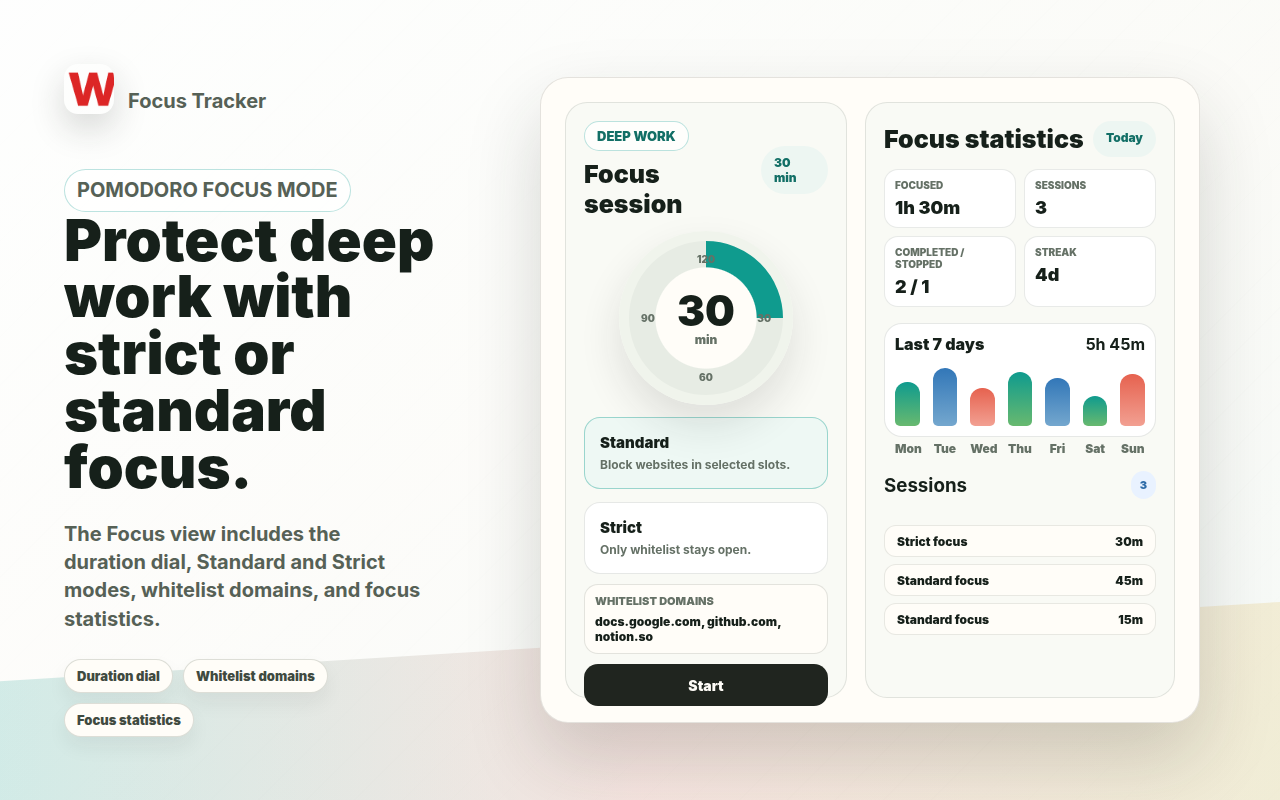
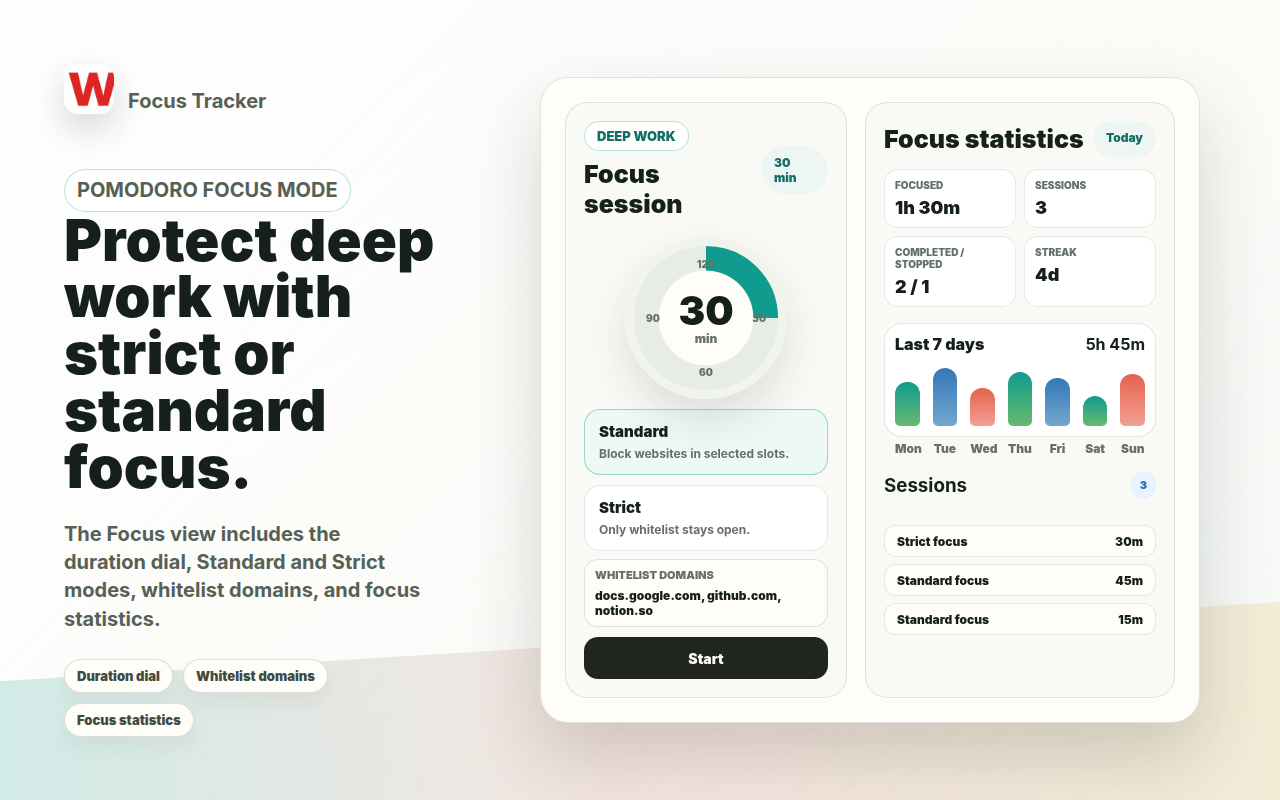
Tighten presentation screenshot layouts

Changed region(s): [[0.4375, 0.625, 0.6562, 0.9062], [0.5, 0.3125, 0.625, 0.4062], [0.4688, 0.5312, 0.625, 0.5938]]

diff --git a/presentation/store-assets.html b/presentation/store-assets.html
@@ -382,6 +382,49 @@
         padding: 0 18px 20px;
       }
 
+      .site-card-mock {
+        position: relative;
+        display: grid;
+        gap: 8px;
+        padding: 9px 44px 9px 66px;
+        border-radius: 12px;
+        background: #f8fbff;
+        border: 1px solid rgba(22, 32, 28, 0.12);
+        box-shadow: 0 10px 24px rgba(32, 37, 31, 0.06);
+      }
+
+      .site-card-toggle {
+        position: absolute;
+        top: 14px;
+        left: 12px;
+        width: 44px;
+        height: 24px;
+        border-radius: 999px;
+        background: var(--teal);
+      }
+
+      .site-card-toggle::before {
+        content: "";
+        position: absolute;
+        top: 3px;
+        right: 3px;
+        width: 18px;
+        height: 18px;
+        border-radius: 50%;
+        background: #ffffff;
+        box-shadow: 0 2px 6px rgba(32, 37, 31, 0.18);
+      }
+
+      .site-card-mock .site-row {
+        grid-template-columns: 1fr auto;
+        min-height: 40px;
+        padding: 0;
+        border: 0;
+        border-radius: 0;
+        background: transparent;
+        box-shadow: none;
+      }
+
       .site-row {
         display: grid;
         grid-template-columns: 36px 1fr auto;
@@ -423,6 +466,34 @@
         color: #6b7469;
         font-size: 12px;
         font-weight: 750;
+      }
+
+      .site-card-mock .site-row-actions {
+        display: grid;
+        align-items: stretch;
+        justify-content: stretch;
+        gap: 8px;
+        margin: 0;
+        padding-top: 10px;
+        border-top: 1px solid rgba(22, 32, 28, 0.08);
+        border-radius: 0;
+        background: transparent;
+        color: #64748b;
+        font-size: 12px;
+        font-weight: 800;
+      }
+
+      .revoke-button-mock {
+        display: grid;
+        place-items: center;
+        width: 100%;
+        min-height: 34px;
+        border: 1px solid rgba(190, 24, 93, 0.16);
+        border-radius: 6px;
+        background: rgba(190, 24, 93, 0.08);
+        color: #be185d;
+        font-size: 12px;
+        font-weight: 850;
       }
 
       .badge {
@@ -770,6 +841,7 @@
       .usage-two-col {
         display: grid;
         grid-template-columns: 1.08fr 0.92fr;
+        align-items: start;
         gap: 10px;
       }
 
@@ -885,20 +957,20 @@
         position: relative;
         display: grid;
         place-items: center;
-        width: 174px;
-        height: 174px;
-        margin: 8px auto 12px;
+        width: 162px;
+        height: 162px;
+        margin: 6px auto 10px;
         border-radius: 50%;
         background:
           radial-gradient(circle at center, #fffdf8 0 46%, transparent 47%),
           conic-gradient(var(--teal) 0 25%, #e7ece4 25% 100%);
-        border: 10px solid #f0f4ec;
+        border: 9px solid #f0f4ec;
         box-shadow: 0 20px 42px rgba(32, 37, 31, 0.12);
       }
 
       .clock-mock strong {
         display: block;
-        font-size: 42px;
+        font-size: 40px;
         font-weight: 950;
         line-height: 1;
         text-align: center;
@@ -925,8 +997,8 @@
       .clock-mock .mark-90 { left: 12px; top: 50%; transform: translateY(-50%); }
 
       .whitelist-field-mock {
-        margin-top: 10px;
-        padding: 9px 10px;
+        margin-top: 8px;
+        padding: 8px 10px;
         border-radius: 14px;
         background: #fffdf8;
         border: 1px solid rgba(101, 113, 102, 0.18);
@@ -1061,14 +1133,25 @@
 
       .mode-card {
         display: grid;
-        gap: 13px;
+        gap: 10px;
       }
 
       .mode-option {
-        padding: 15px;
+        padding: 12px 14px;
         border-radius: 16px;
         background: white;
         border: 1px solid rgba(101, 113, 102, 0.16);
+      }
+
+      .focus-config-panel {
+        display: flex;
+        min-height: 0;
+        flex-direction: column;
+      }
+
+      .focus-start-button {
+        min-height: 42px;
+        margin-top: auto;
       }
 
       .mode-option.active {
@@ -1476,16 +1559,23 @@
               <div class="status-box"><strong>Extra time is active</strong><span>reddit.com can be cut off immediately from the website list.</span></div>
               <div class="section-title"><strong>Websites</strong><div class="pill-button">Add website</div></div>
               <div class="site-list">
-                <div class="site-row">
-                  <div class="check">✓</div>
-                  <div><strong>reddit.com</strong><span>extra time allowed, PIN required for extra time</span></div>
-                  <div class="badge">Live</div>
+                <div class="site-card-mock">
+                  <div class="site-card-toggle" aria-hidden="true"></div>
+                  <div class="site-row">
+                    <div><strong>reddit.com</strong><span>extra time allowed, PIN required for extra time</span></div>
+                    <div class="badge">Live</div>
+                  </div>
+                  <div class="site-row-actions">
+                    <span>5m added time remaining</span>
+                    <span class="revoke-button-mock">Revoke added time</span>
+                  </div>
                 </div>
-                <div class="site-row-actions"><span>5m added time remaining</span><span>Revoke added time</span></div>
-                <div class="site-row blocked">
-                  <div class="check">!</div>
-                  <div><strong>youtube.com</strong><span>blocked until 6:00 PM</span></div>
-                  <div class="badge hot">Blocked</div>
+                <div class="site-card-mock">
+                  <div class="site-card-toggle" aria-hidden="true"></div>
+                  <div class="site-row">
+                    <div><strong>youtube.com</strong><span>blocked until 6:00 PM</span></div>
+                    <div class="badge hot">Blocked</div>
+                  </div>
                 </div>
               </div>
             </aside>
@@ -1557,7 +1647,7 @@
 
       const focus = `
         <div class="focus-scene">
-          <section class="panel">
+          <section class="panel focus-config-panel">
             <div class="analytics-head"><div><p class="kicker" style="margin: 0 0 8px">Deep Work</p><h2>Focus session</h2></div><div class="date-chip">30 min</div></div>
             <div class="clock-mock">
               <span class="mark-120">120</span><span class="mark-30">30</span><span class="mark-60">60</span><span class="mark-90">90</span>
@@ -1568,7 +1658,7 @@
               <div class="mode-option"><strong>Strict</strong><span>Only whitelist stays open.</span></div>
             </div>
             <div class="whitelist-field-mock"><span>Whitelist domains</span><strong>docs.google.com, github.com, notion.so</strong></div>
-            <div class="button" style="margin-top: 10px; min-height: 42px">Start</div>
+            <div class="button focus-start-button">Start</div>
           </section>
           <aside class="panel">
             <div class="analytics-head"><h2>Focus statistics</h2><div class="date-chip">Today</div></div>
